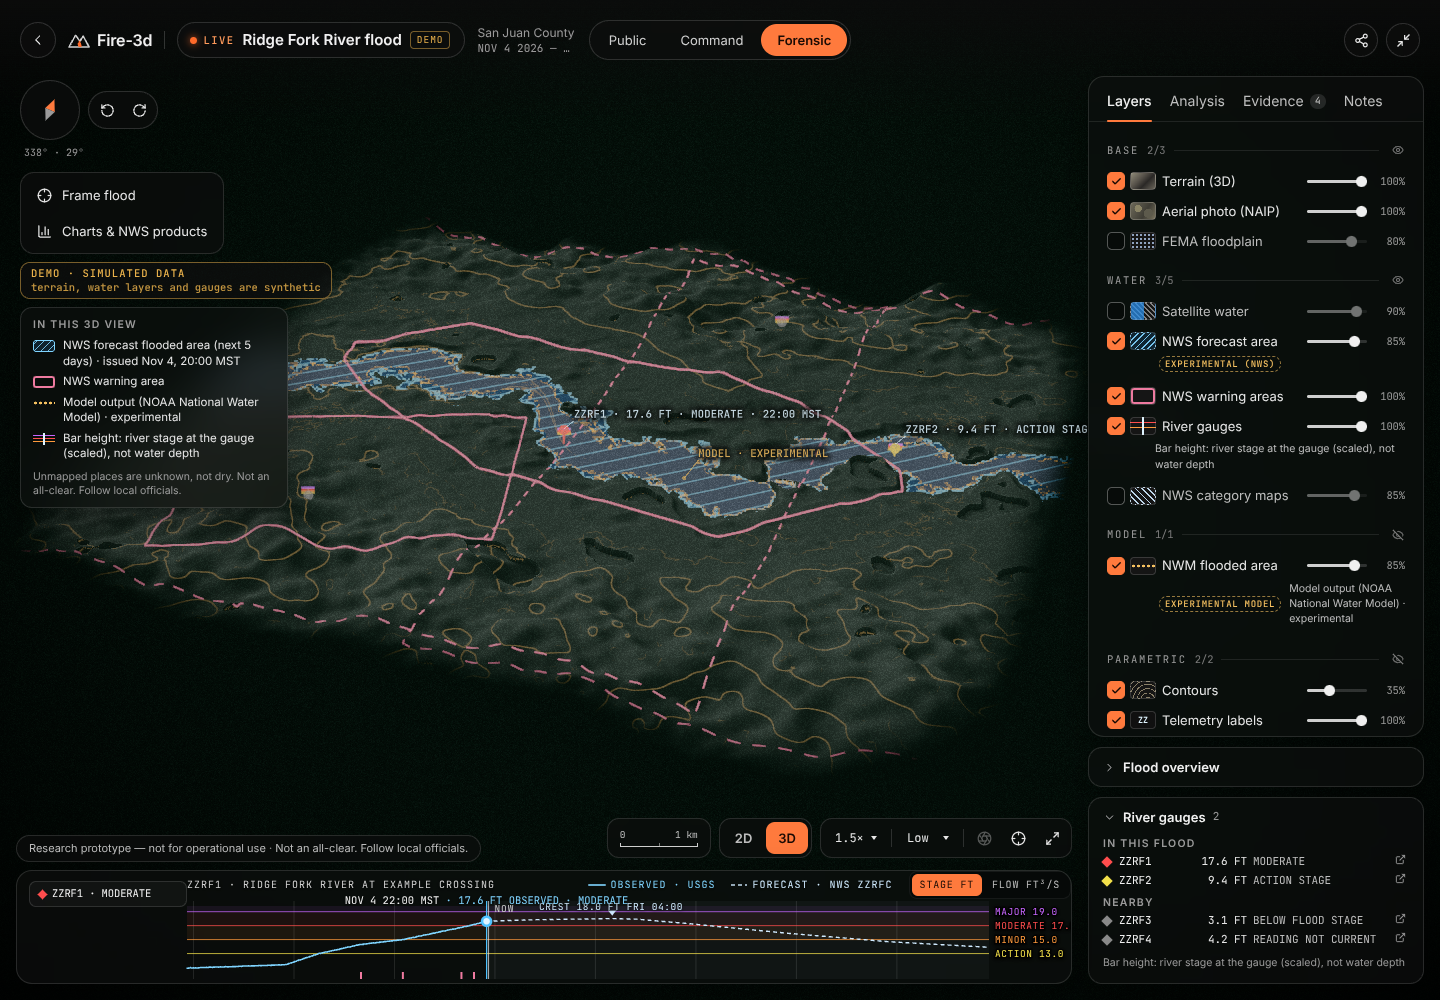
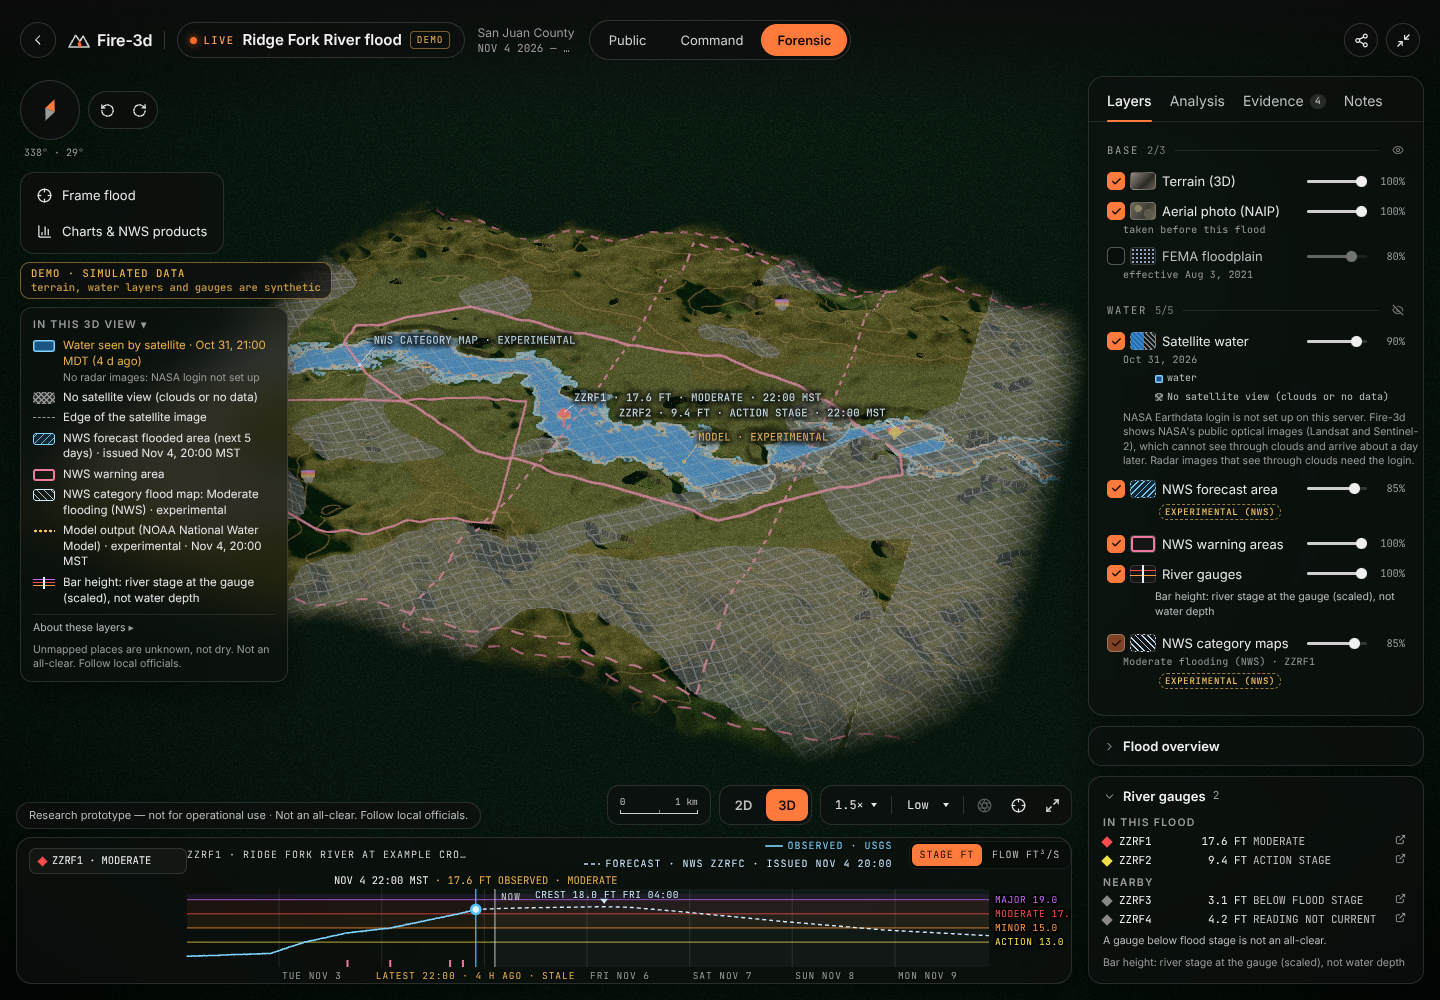
brief 5 web-flood-forensic: review fixes
Review review5-web-flood-forensic (14 findings, all fixed). The code fixes for R1-R13
were committed by the work-in-progress snapshot 8e756a7; this commit adds:
- Flood overview card: one row per line (the base .kv grid had put two rows side by side)
- screenshots retaken and viewed: fixture, model-on, cursor-future, phone, fire regression
  (--wait 40000, R14), plus fix-probe, fix-stjohns-fema and fix-past-dock
- review5-web-flood-forensic.json, the role report, the as-built note and progress

Gates: backend 1383 passed; web typecheck, lint 55 (all src/scene), 1780 passed / 2 skipped, build.

Claude-Session: https://claude.ai/code/session_016JQLLLPiy3zrdDeXcY1uZS

Changed region(s): [[0.0, 0.186, 1.0, 0.992], [0.9062, 0.217, 0.9375, 0.279], [0.9375, 0.31, 0.9688, 0.341]]

diff --git a/web/src/styles/forensic-flood.css b/web/src/styles/forensic-flood.css
@@ -524,8 +524,10 @@ p.fxf-key-future {
 }
 
 /* ------------------------------------------------------------------------------------------------ cards */
-.fxf-kv {
+.kv.fxf-kv {
   display: grid;
+  /* one row per <div> (each row is its own dt / dd grid): never the base .kv's two columns */
+  grid-template-columns: minmax(0, 1fr);
   gap: 5px;
   margin: 0;
   font-size: 12px;

diff --git a/docs/redesign/contract5/web-flood-forensic.md b/docs/redesign/contract5/web-flood-forensic.md
@@ -74,9 +74,9 @@ mounts the real `Hydrograph variant="dock"` (no placeholder).
   → `GaugeBarSpec { lid, x, z, member, heightM, color, crestM, crestColor, ticks, topM, label, labelled }`. Members
   through `memberGaugesOf` (one reading per gauge, WFP-R2), then nearby gauges inside the area; labels only for members
   and gauges at action or above (a 60 km area holds dozens of gauges).
-- `scene/overlays/SceneOverlays.tsx`: for a flood the probe readout shows coordinates, elevation, slope, the satellite
-  class word, inside / outside the NWS forecast area, and FEMA / the model only while on (never fuel, arrival or
-  ignition); the frame button says "Frame the flood"; the loading veil follows the flood's assets.
+- `scene/overlays/SceneOverlays.tsx`: for a flood the probe readout shows coordinates, elevation, slope and the rows of
+  `scene/flood/floodProbe.ts` (review WFF-R1, below; never fuel, arrival or ignition); the frame button says "Frame the
+  flood"; the loading veil follows the flood's assets.
 
 ## Panels (`ui/forensic-flood/`)
 
@@ -109,6 +109,51 @@ mounts the real `Hydrograph variant="dock"` (no placeholder).
   `CURSOR_FUTURE_PRODUCTS` after now.
 - `styles/forensic-flood.css`: everything above (no green).
 
+## Review fixes (review5-web-flood-forensic.json, 14 findings, all fixed)
+
+The code is in the orchestrator's snapshot 8e756a7 (taken during a usage-limit pause); the card grid fix, screenshots
+and docs are in `brief 5 web-flood-forensic: review fixes`.
+
+- **Hover readout (R1)**: new pure `scene/flood/floodProbe.ts`: `floodProbeRows({ flood, layers, extent, point: { x, z,
+  lon, lat }, cursorMs, nowMs, tf }) → { rows: ProbeRow[], note }` (`ProbeRow { key, label, text, tone? }`), `cellAt`,
+  `catfimCategoryLabel(category)` ("Moderate flooding (NWS)"), `catfimCategoryWord(category)` ("moderate"). Rows: NWS
+  products drawn at the handle whose area holds the spot (`INSIDE_WARNING` / `INSIDE_WARNING_UPCOMING`, issuer's zone);
+  SATELLITE with the pass's own sentences (`FLOOD_PUBLIC.satWaterPoint` / `satNotWaterPoint` / `satSnowPoint` /
+  `satOceanPoint` / `satNoViewPoint`, `SAT_CLOUD_POINT`, `SAT_NODATA_POINT`, `SAT_OUTSIDE_POINT` outside
+  `image.bounds_lonlat`); NWS FCST inside / "unknown, not absent"; FEMA (while on) its zone, `NFHL_OUTSIDE` only when
+  `layer_status.floodplain.reason` is null, `NFHL_NO_MAP`, else "may not cover this spot. Not an all-clear."; the category
+  map and the model only inside (`MODEL_AT_POINT`), never "not flooded". Note: `NOTHING_COVERS` (no NWS product, forecast
+  area or satellite water at the spot), `NOTHING_COVERS_OFFICIAL` (only FEMA / category map / model), the copy's outage
+  text when warnings.json is not available. Values wrap (`.fxf-probe-row`).
+- **Layer notes and caveats (R2)**: `floodForensicView.layerNote(k, flood)` (the reason of an 'ok' layer); `layerUnavailable`
+  returns the backend's reason for a layer made with nothing to draw. `SceneKeyItem` gains `notes?: string[]` (shown
+  under the line: `SAT_NOT_SET_UP_SHORT`, FEMA's partial map, other reasons) and `more?: { title, texts }` (the key's
+  fold-out "About these layers": satellite.json caveats + `login_note`, `RFC_FIM_NOTE` + `RFC_FIM_OUTSIDE`, `NFHL_NOTE`,
+  `CATFIM_NOTE`, `MODEL_CAVEAT`, warnings.json / gauges.json caveats). The Layers tab shows the note under the row.
+- **Dates (R3)**: `floodplainEffective(flood)` (FEMA's `time_ms` as a UTC calendar date); the key's FEMA line is
+  `NFHL_LABEL`; row notes ("effective {date}", "taken before this flood", the image day, the category in words) are a
+  line of their own (`.fxf-row-meta`), never the `.lrow-meta` the narrow column hides.
+- **Handle after now (R4)**: `sceneKeyItems({ …, cursorMs })` adds an amber `future` item with `futureProductsNote(warningsAt(…))`
+  (web-flood-command's shared note: `CURSOR_FUTURE_PRODUCTS` or `CURSOR_FUTURE_ISSUED`); on phones it shows under the
+  folded key. `warningsAt` now returns web-flood-command's `ShownProducts` (`productsShown`, WFC-R1).
+- **Dock absence (R5)**: `dockNoProduct({ cursorMs, nowMs, savedMs, tf })`, `COPY_FRESH_MS` (30 min); the products column
+  also shows "Copy saved with the 3D data · {time} ({age})".
+- **Overview card (R6)**: `overviewProduct(warnings, built_ms, now) → { kind: 'unavailable', text } | { kind: 'product', alert }
+  | { kind: 'none' }`; the card never reads the live list. `.kv.fxf-kv` is one column (the base `.kv` grid had put two
+  rows side by side).
+- **Gauges card (R7)**: gauges.json caveats and `GAUGE_NOT_ALL_CLEAR` whenever a listed gauge is below flood stage.
+- **Bar labels (R8)**: `gaugeBarMath.placeBarLabel(anchor, size, wPx, hPx, offset, insets, blocked) → { flip, hidden, box }`,
+  `ScreenRect`; new `scene/flood/floodOverlayRects.ts` (`setFloodOverlayRect(id, rect | null)`, `floodOverlayRects()`),
+  fed by `FloodForensic` (ResizeObserver on the key column, badge, entry controls, prototype pill). `GaugeBars` drives
+  `ScreenLabel`'s `fade` / `flip` / `screen` refs per frame (instant under reduced motion).
+- **Phone picker (R9)**: under `NARROW_QUERY` the picker shows the diamond and the gauge id (`.fxf-pick.is-narrow`).
+- **Loader test (R10)**: `scene/flood/floodAssets.test.ts` (stubbed fetch, 5 cases).
+- **Nits**: R11 category in words; R12 `where`, `analysisPlaceholder`, `dockPlaceholder`, `keyFuture` removed (new keys:
+  `keyMore*`, `probeNws`, `probeCatfim`, `probeOutPlainUnknown`, `probeInCatfim`, `layerNaipBefore`,
+  `layerFloodplainEffective`, `keyFloodplainNoDate`, `overviewProductAt`, `dockCopyTime`, `dockNoProductAt`,
+  `dockNoProductCopy`; `keyCatfim` and the probe sentences reworded); R13 flood colours from `--m-flood*`, `--m-alert`,
+  `--m-cat-*`; R14 fire regression retaken at `--wait 40000`.
+
 ## Hand-off (`ui/shell/handoff.ts`)
 
 `openEventGrid()` → `{ kind: 'fire' | 'flood', id, grid } | null` (the open fire's ready manifest, else the open
@@ -127,8 +172,9 @@ rule is unchanged (`handoff.test.ts`: fire cases unchanged, one flood case).
 
 ## For the next roles
 
-- **web-flood-command (Hydrograph, dock variant):** (1) with an explicit `gauges` prop the dock still tags a member
-  gauge "NEARBY" (the `?lid=` answer has `member: false`): take membership from the `gauges` prop / picker list;
-  (2) the handle's words overlap the "NOW" and "CREST … / HIGH … AT END" labels in the 112 px dock; (3) the 82 px
-  right gutter cuts "MODERATE 17.0" to "MODERATE 17." (and "16." for St. Johns).
-- **integration:** Analysis-tab small multiples (cut line); CONTRACT §16.16 from this note.
+- **web-flood-command (Hydrograph, dock variant):** after its review fixes the dock label rows read in full; still seen
+  in the review-fix screenshots: the 82 px right gutter cuts "MODERATE 17.0" to "MODERATE 17.", and with the products
+  column open the title row touches the "--- FORECAST" legend.
+- **integration:** Analysis-tab small multiples (cut line); CONTRACT §16.16 from this note (including the review-fix
+  exports above: `floodProbe.ts`, `floodOverlayRects.ts`, `placeBarLabel`, `layerNote`, `floodplainEffective`,
+  `dockNoProduct`, `overviewProduct`, `SceneKeyItem.notes / more`).

diff --git a/docs/redesign/progress/brief5-web-flood-forensic.md b/docs/redesign/progress/brief5-web-flood-forensic.md
@@ -37,3 +37,10 @@ Role `web-flood-forensic` (PLAN-5 §4.7, CONTRACT §16.12). Ports API 8756, Vite
   dock absence, overview from warnings.json, gauge caveats, label placement + floodOverlayRects, phone picker,
   floodAssets.test.ts, unused copy removed, tokens in CSS); targeted tests green, typecheck ok, lint 55. Next:
   screenshots on 8756 / 5216, then gates.
+- 09:20 UTC: resumed after a usage-limit pause. The code fixes of 07:24 were committed by the orchestrator's snapshot
+  8e756a7 (no uncommitted edits left in this role's files). Next: re-verify, typecheck / lint / targeted tests,
+  screenshots on 8756 / 5216, gates, reports, commit "review fixes".
+- 09:30 UTC: screenshots retaken and viewed (fixture, probe, cursor-future, past-dock, phone, St. Johns FEMA, model-on, fire regression at 40 s); found and fixed the Flood overview card's two-column grid (.kv base columns). Next: full gates.
+- 09:40 UTC: gates green (backend 1383 passed; web typecheck ok, lint 55 all in src/scene, 135 files / 1780 passed / 2
+  skipped, build ok). Servers on 8756 / 5216 stopped. review5-web-flood-forensic.json written (14 fixed, 0 skipped), role
+  report and as-built note updated; committing "brief 5 web-flood-forensic: review fixes".
